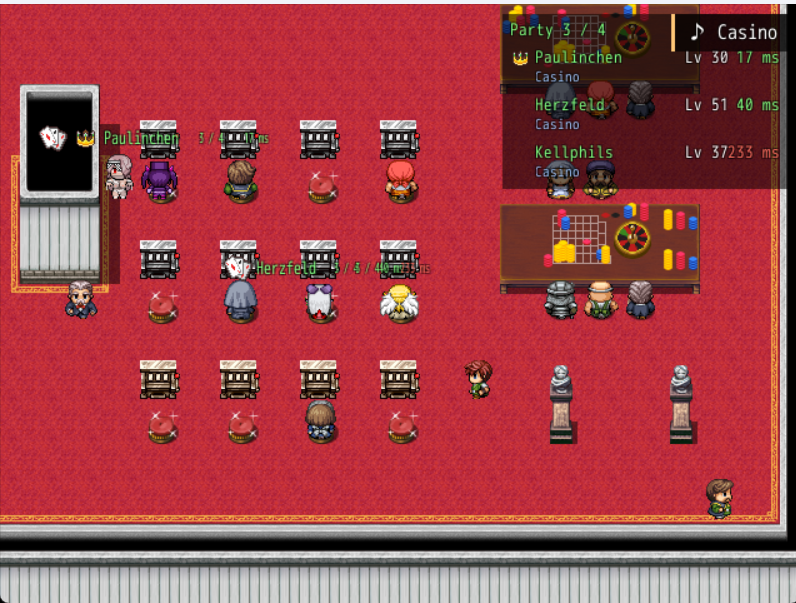
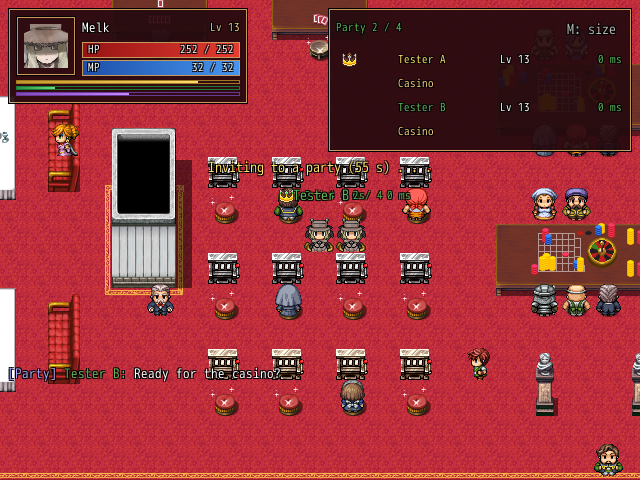
docs(guide): describe the upgrade from 0.6, the world details and the replay notices with new pictures

diff --git a/docs/RAID_WORLDS.md b/docs/RAID_WORLDS.md
@@ -38,7 +38,7 @@ Pick *Raid* as the *World type* in the create form (see [Creating a world](GUIDE
 
 - **One story:** the world has one story, and whoever moves it on moves it on for everyone. Your game takes the world's story when you enter the world, load a save or start a new game, and whenever another player's story moved on, once you're free on the map. Your saves hold the world's story as it was then; what you changed just before saving, going back to the title screen or closing the game still reaches the world. Nobody plays a party leader's story here.
 - **What stays yours:** your party and companions, your side (Alice or Ilias), your own answers to the story's choices, and your chests. That includes the Navy or the Pirates at Navy Headquarters: each player's side brings their own companions and their own ship, and a save that was already past it before this choice existed is asked once when you enter. The chests that hold the story's key items are the world's: each opens once, for everyone, in each player's own game, as if they had opened it themselves; one your party cannot unlock yet waits until it can.
-- **Choices in another player's events:** when another player's event plays in your game, it asks you each of its choices that changes your own story or what you get, with the event's own answers. Whom you take along in Iliasville is always your own pick.
+- **Choices in another player's events:** when another player's event plays in your game, it asks you each of its choices that changes your own story or what you get, with the event's own answers, in a box titled with that player's name once you stand free on the map. Cancel answers what the game's own cancel answers in that choice; where the choice has none, cancel puts the question off until you stand free again after a message, menu, battle or map change. Whom you take along in Iliasville is always your own pick.
 - **Key items:** every key item the world's story gives or takes reaches every player, whatever part of the story they're in.
 - **No list of gifts:** the catch-up hands out what you're owed without a message listing it; the World overview's Unlocks page shows what each level brings. A companion who joins or leaves, and moving on to the world's story, still say so.
 - **Side quests:** a side quest moves on for the whole world, like the story, so whoever does a step does it for everyone. Its gifts come to every other player once the world passed that step, such as Amira's Informant Papers once anyone started her Phoenix Tail investigation, or a companion's reward on the Pocket Castle's board. A gift you got yourself doesn't come twice.
@@ -47,11 +47,11 @@ Pick *Raid* as the *World type* in the create form (see [Creating a world](GUIDE
 - **Makina:** once anyone in the world got a Makina, from its own chest or event, or enters the world holding one, it comes to every other player whose level reaches the level of the area where it can be found, such as level 6 for the three in Tartarus I299387. A Makina nobody got yet comes to nobody by level. It comes by opening its chest in your game, as if you had opened it yourself: the chest closes, and what it does for you, it does. A locked one waits until your party can unlock it. Only your actual level counts, never the level cap of another mod: a character held at a cap below a Makina's level doesn't bring it. Whenever you enter the world or load a save, everything your level has reached comes at once: Makina, companions, and the story's skills and items that wait for it.
 - **Companions on a visit:** a companion the story brings along only for a while, who leaves again within the same stretch of the story (such as Alma Elma's visits in Part 2, or the Chaos route's final lineup), is never handed out by the catch-up, doesn't count toward your level and gains no catch-up experience; neither does a story's temporary party. Their lasting joins count as usual. Alice and Ilias always count.
 - **Alice's and Ilias's companions:** the companions only one side gets in Parts 1 to 3, such as Ilias, Micaela-chan and Eden on Ilias's side or Alice, Lilith & Lilim and Morrigan on Alice's, come only to the players who took that side along in Iliasville, never before they chose, by the catch-up, a replay, sharing or the world's story alike. From the Great Decision on, your route gives what the game gives on it: siding with the Dark Goddess, Ilias's side's companions leave and Alice's join; siding with the Goddess Ilias, the other way round; the third way brings both. Anyone you got on a route you played stays with you after it, and a route you never played takes no one from you. If you start from the world's starting save past Iliasville, its side is the creator's, so you're asked whom you take along, and a companion of the other side you hold leaves you ("Ilias left you."). Your own save keeps the side you took along.
-- **Key items, job and race items:** when an event of any player gives a key item or an item that unlocks a job or a race, such as the Chef's License from its chest in Rostrum or the Fortune Teller Permit from the Fortune Teller in Pornof, ores and music CDs too, that event plays again in every other player's game, silently, and gives it to them too, behind on a part of their own too, and its chest shows open for them. A player who joins later gets it as their game walks the world's story. When an event of any player uses one up, such as the Yggdrasil Fruit the Queen Harpy takes, every player of the world who holds one loses it too; if you don't hold it, nothing happens and nothing waits on it. One a player gets as a battle's drop reaches every other player too, silently, with a notice, and later joiners as their game walks the world's story. Small and Large Medals stay your own.
+- **Key items, job and race items:** when an event of any player gives a key item or an item that unlocks a job or a race, such as the Chef's License from its chest in Rostrum or the Fortune Teller Permit from the Fortune Teller in Pornof, ores and music CDs too, that event plays again in every other player's game, out of sight, and gives it to them too, behind on a part of their own too, and its chest shows open for them; a notice names the player who played it for everyone and what it gave you. A player who joins later gets it as their game walks the world's story. When an event of any player uses one up, such as the Yggdrasil Fruit the Queen Harpy takes, every player of the world who holds one loses it too; if you don't hold it, nothing happens and nothing waits on it. One a player gets as a battle's drop reaches every other player too, with a notice that names who won it, and later joiners as their game walks the world's story. Small and Large Medals stay your own.
 - **Skills, classes and races of the story:** the skills the story and its side and companion quests teach a companion, such as the Defense traits Rami learns on her flying lessons, and the classes and races they give, such as Luka's Hero at Mt. Saint Amos and his Lowly Angel race in the Forest of Spirits, come to that character in every player's roster within a few seconds once the world passed the step, and to a companion who joins you later as soon as they join. A class or race comes at the level the story gives it; the one you play stays as it is.
 - **Power-ups:** once anyone in the world finished a power-up, such as Alice's or Ilias's on the Chaos route, Black Alice's tower or Alipheese the 9th, every other player gets what it gives once their actual level reaches the level it raises the character to (at most 300): the new form, and on a first playthrough the level, equipment, gem stones and abilities that come with it. Each comes once, so a form you pick again later stays; medals stay yours.
 - **The second accessory slot:** once anyone in the world got Fallen Micaela's blessing at Enrika, every player's characters can wear two accessories.
-- **Prizes:** the prizes the game hands out once, such as the Reaper's Battle Challenge, the Colosseum's ranks and cups, Survival and the battlefucks' rewards, are the world's: the event that wins one plays again in every other player's game, silently, and gives them the prize too. The Medal King's one-of-a-kind items come free to every player once anyone bought one.
+- **Prizes:** the prizes the game hands out once, such as the Reaper's Battle Challenge, the Colosseum's ranks and cups, Survival and the battlefucks' rewards, are the world's: the event that wins one plays again in every other player's game, out of sight, and gives them the prize too. The Medal King's one-of-a-kind items come free to every player once anyone bought one.
 - **Battlefucks:** a battlefuck plays in your own game alone; nobody is taken along to watch it, and you aren't taken along to another player's. A battlefucker's progress is the world's, so one beaten by anyone is beaten for everyone, and what she gives comes to every player like the story's other rewards.
 - **Affection:** each companion's affection is the highest any player of the world reached. Raising it, with a gift or in battle, raises it for everyone within a few seconds of your next write, and nothing lowers it. Affection gifts, such as a Proof of Faith from the Pocket Castle's cathedral, stay yours to claim: every player gets each gift once, as soon as the shared affection is high enough.
 - **Only forward:** what the world's story reached never goes back. A boss beaten stays beaten and a quest's step stays done, even when an old scene of your own save or a game over sets it back for you: the world's progress comes back as soon as the event is over.

diff --git a/docs/GUIDE.md b/docs/GUIDE.md
@@ -75,7 +75,9 @@ They are kept in `Patch\Multiplayer\Player.ini`, so they hold in every save.
 
 MGQ Online needs the [Mod Framework](https://github.com/Pauliinchen/MGQ-Mod-Framework), which you install first (see the [README](../README.md#install)). The framework installs, updates and removes the mods of the [website](https://mgqonline.org/mods), MGQ Online too, which has no updater of its own; its [guide](https://github.com/Pauliinchen/MGQ-Mod-Framework/blob/main/docs/GUIDE.md) tells how. MGQ Online's settings and hotkeys are in *Options → Mods*: *MGQ Online Settings*, *MGQ Online SP* and *MGQ Online Hotkeys*.
 
-When the server needs a newer release of MGQ Online, the mod asks the framework for it: on the title screen as you pick *Multiplayer*, and at the title after the server turned your version away in a world. *Update and restart* installs it and starts the game again in the Multiplayer menu. Until you update, worlds, duels and trades stay off.
+When the server needs a newer release of MGQ Online, the mod asks the framework for it: on the title screen as you pick *Multiplayer*, and at the title after the server turned your version away in a world. *Update and restart* installs it and starts the game again in the Multiplayer menu. Until you update, worlds, duels and trades stay off. This is checked on Windows; under Wine and Proton it should work too but is not checked yet: if the update does not move into place there, close the game and extract the release's zip into the game folder by hand.
+
+**Coming from 0.6:** install the Mod Framework 0.1.0 first, from the [website](https://mgqonline.org/mods) or its [GitHub release](https://github.com/Pauliinchen/MGQ-Mod-Framework/releases), then MGQ Online 0.7; 0.6 can no longer play online. On Windows, 0.6.9.2 offers the update itself as you pick *Multiplayer*, but it brings 0.7 without the framework: the game then says MGQ Online needs the Mod Framework, and the mod stays off until you install it. Under Wine and Proton, 0.6.9.2 cannot update itself: close the game, install the framework, extract the 0.7 zip into the game folder by hand and delete `Patch\0_ModConfigRemake.rb`, which 0.6 brought and the framework replaces.
 
 ## Worlds
 
@@ -111,7 +113,14 @@ The worlds box lists every public world, the hidden worlds you joined and the hi
 
 Worlds you played that are no longer listed, such as one its creator deleted, come last.
 
-With the cursor on a world, the right side shows its details: who made it, its password (*None*, *Needed*, or *Known* once this PC entered it with the password), its players, how new players start, the mods it needs, that your game data is compared with the creator's as you enter, and its description. The right arrow moves into the details; the arrows pick the world's facts, its game data, its players or its description, and confirm (or a click) opens it in full: every fact of the world, its mods with the mod settings and other mods, every player, or the whole description. Every player who ever joined is listed, those online first. The left arrow or cancel goes back to the list.
+With the cursor on a world, the right side shows its details in four parts:
+
+- **World**, its heading marked *Raid World* or *featured*: *Creator*, *Players* (online of its seats), *Password* (*None*, *Needed*, or *Known* once this PC entered it with the password), *Listed* (*Public* or *Hidden*) and *Start* (where new players start). A Raid World adds *Difficulty*, *Sharing* and *Squad*, its squad rules in one line such as "4, front 1, Luka fixed"; a Classic world with raid bosses adds *Raid Bosses*.
+- **Game data:** the mods it needs, its mod settings and whether it turns other mods off, with the note that your game data is compared with the creator's as you enter (for your own world, that yours becomes the world's).
+- **Players:** every player who ever joined, those online first.
+- **Description.**
+
+A world that is only on this PC shows its *Status* alone: deleted or you were removed, or not in the list right now. The right arrow moves into the details; the arrows pick the World part, the Game data, the players or the description, and confirm (or a click) opens it in full: every fact of the world, its mods with the mod settings and other mods, every player, or the whole description. The left arrow or cancel goes back to the list.
 
 ### Entering a world
 
@@ -277,7 +286,7 @@ Press **F11** or pick the middle of the action wheel; **F11**, **B**, cancel, nu
 
 **The Players page:**
 
-- **Every player online**, grouped by where they are, yours first: their name in their color, the highest level in their formation, where they are in the story ("Part 2: Alice side") and their ping.
+- **Every player online**, grouped by where they are, yours first: the map sprite of the character who leads their team, as on the map, then their name in their color, the highest level in their formation, where they are in the story ("Part 2: Alice side") and their ping.
 - Party leaders have a crown, a party's size shows as "2 / 4", and your party's members are green, you yellow. A player whose invite or challenge reaches you shows "Invites you to a party" or "Challenges you to a duel" in their row.
 - **Pick a player** with the arrow keys and confirm, or click them, to invite them to your party or accept their invite, and to challenge them to a duel or accept theirs, wherever in the world they are. A party invite from afar stands for a minute; "Inviting to a party (58 s) . . ." above your head counts it down. As your party's leader you also remove members here, after a question ("Remove \<name> from the party?"). On your own row you can leave your party, after a question too, or stop inviting.
 
@@ -312,7 +321,7 @@ The mod's invites and messages show among the Mod Framework's notices, in the co
 
 ## Parties
 
-![A party of three at the casino, with the party box at the top right](images/party-casino.png)
+![A party of two at the casino, with the party box at the top right](images/party-casino.png)
 
 A party holds up to four players. Its leader is the player who made it: only they invite more and remove members (in the World overview). In a [Classic World](CLASSIC_WORLDS.md) the party plays its leader's story together; in a [Raid World](RAID_WORLDS.md) everyone plays the world's story, and a party gets the first places in each other's battles.
 
@@ -353,7 +362,7 @@ Everyone goes where they like. In a Classic World the leader's story scenes brin
 
 ## Co-op battles
 
-![A co-op battle: each player's characters carry their name](images/coop-battle.png)
+![A co-op battle: each character in its player's color](images/coop-battle.png)
 
 When a battle starts for a party member, whether a random encounter, a wandering monster or a story boss, the party members playing on the same map join it; in a Raid World the players nearby join too. Who runs the battle and whose levels count depend on the world type: see [Classic Worlds](CLASSIC_WORLDS.md#co-op-battles) and [Raid Worlds](RAID_WORLDS.md#battles), whose page also explains the [raid bosses](RAID_WORLDS.md#raid-bosses).
 

diff --git a/Relay/README.md b/Relay/README.md
@@ -185,7 +185,7 @@ Options, each left out when off: `defeatWrite: true` (the post-defeat processing
 
 **`events`** rows: `key`, the self switches of a map event (`ss<map>.<event>.<letter>`, `*` for every event or every letter: `ss231.*.*` for every self switch of map 231, `ss0.*.F` for the found items' self switches on map 0, which has no events) or those a common event writes (`ce<id>.<letter>`); `share` (`shared` or `personal`, against what the derived index says); `chest: true` for a chest's self switches, with `share` `personal` only, which the relay keeps for the player alone (the `chest` kind of Story tracks); the reviewed seed holds such a row only for the chests whose event the derived index would otherwise share, while every other chest's self switches stay in the player's own save; `wholeWorld: true` with `share` `shared` only, for self switches the whole world keeps, players behind included (the found items' `ss0.*.F`, so a key item or a job or race item any player found reaches every player of the world). A relay seeded before 2026-11-01 keeps its `ss0.*.F` row without the option until an admin changes it.
 
-**Catch-up tables**, each replacing the Ruby table named, with its fields in this order. A row's place is `site` (`map:<map>:<event>:<page>`, pages from 1, or `ce:<id>`), `part` (`1`, `2`, `3`, `ad`, `mr`, `chaos` or null), `step` (null where nothing tells it), `side` (`alice`, `ilias` or null) and `marks` (each `["s", switch]`, `["v", variable, at least]` or `["ss", map, event, letter]`); `ran` tells whether the marks show that the event ran. Tables marked *ordered* also take `order` (0 to 1,000,000,000), the story's order games read them in, rows of one order in the order of their ids; rows of tables without a key are numbered by the relay, a number never given twice.
+**Catch-up tables**, each replacing the Ruby table named; those of the deleted `coop_story_rewards.rbx` live only here now, seeded from `seed/story/<table>.json` and read by `MGQOnline.Game/Catchup/CatchupTables.cs`. Each lists its fields in this order. A row's place is `site` (`map:<map>:<event>:<page>`, pages from 1, or `ce:<id>`), `part` (`1`, `2`, `3`, `ad`, `mr`, `chaos` or null), `step` (null where nothing tells it), `side` (`alice`, `ilias` or null) and `marks` (each `["s", switch]`, `["v", variable, at least]` or `["ss", map, event, letter]`); `ran` tells whether the marks show that the event ran. Tables marked *ordered* also take `order` (0 to 1,000,000,000), the story's order games read them in, rows of one order in the order of their ids; rows of tables without a key are numbered by the relay, a number never given twice.
 
 | Table | Replaces | Key | Fields |
 |---|---|---|---|
@@ -206,10 +206,10 @@ Options, each left out when off: `defeatWrite: true` (the post-defeat processing
 | `counts` | `world_catchup.rbx` `COUNTS` | `variable` | `variable`, `weights` (each `{switch, weight}`), `doneSwitch` and `doneValue` (the switch that sets its last value, with that value; both null for none), `since` (`{variable, atLeast}` the variable at a value or more before it counts at all, or null) |
 | `actor_changes` *ordered* | `ACTOR_CHANGES` | numbered | `actor`, `calls` (each `[call, [whole numbers], once]`, the call one of `persona_change`, `level_adjust`, `change_actor_ability`, `force_change_equip`, `change_actor_equip_stone`, `set_actor_had`, `once` whether only a first playthrough runs it), `gate` (the highest level they set, or null), place, `ran` |
 | `prize_switches` | none: the switches of the Medal King's one-of-a-kind exchanges, whose free gift is the one prize the replay does not hand over | `switch` | `switch` |
-| `event_rewards` | `coop_story_rewards.rbx` `SKILLS`, `ACTORS`, `ITEMS`, `SIDED`, `ROUTE`, `FINAL` | `<kind>:<id>` | `kind` (`skill`, `companion`, `item`, `weapon`, `armor`), `id`, `most` (items only), `sided`, `route` (sided ones only), `final` |
-| `side_events` | `coop_story_rewards.rbx` `GROUPS` | `site` | `site` (`map:<map>:<event>` or `ce:<id>`), `alice` and `ilias` (each `{skills, companions}`), `choice`, `marks` (one list of marks per page) |
-| `party_chests` | `coop_story_rewards.rbx` `CHESTS` | `key` | `key` (`ss<map>.<event>.<letter>`, every chest of the game, which a party member keeps their own of) |
-| `chest_flags` | `coop_story_rewards.rbx` `CHEST_FLAGS` | `switch` | `switch` (one only chests turn on, each player's own) |
+| `event_rewards` | the deleted `coop_story_rewards.rbx`: `SKILLS`, `ACTORS`, `ITEMS`, `SIDED`, `ROUTE`, `FINAL` | `<kind>:<id>` | `kind` (`skill`, `companion`, `item`, `weapon`, `armor`), `id`, `most` (items only), `sided`, `route` (sided ones only), `final` |
+| `side_events` | the deleted `coop_story_rewards.rbx`: `GROUPS` | `site` | `site` (`map:<map>:<event>` or `ce:<id>`), `alice` and `ilias` (each `{skills, companions}`), `choice`, `marks` (one list of marks per page) |
+| `party_chests` | the deleted `coop_story_rewards.rbx`: `CHESTS` | `key` | `key` (`ss<map>.<event>.<letter>`, every chest of the game, which a party member keeps their own of) |
+| `chest_flags` | the deleted `coop_story_rewards.rbx`: `CHEST_FLAGS` | `switch` | `switch` (one only chests turn on, each player's own) |
 
 **Seeds.** `seed/story/<table>.json` holds the rows a table starts with: the rules, counts and companion values of the catch-up, kept by hand in `seed/story/make_seed.rb` (`ruby Relay/seed/story/make_seed.rb` in the repository writes them), and the reviewed rows of the other tables, from the row review in `seed/story/REVIEW.md`, which `make_seed.rb` never writes. A file holds either `rows` (each as an admin would add it) and `source` (where they came from), or the list of edits an admin would send to `POST /v1/admin/story/edit`, each an `add` of the file's table. At every start the Node relay fills each table that holds no rows yet from its seed file, all in one revision with the author `seed` and no history, and leaves every table with rows as the admins keep it; a table it filled or found with rows once is never seeded again (the mapping's meta names it in `seeded`), so a table the admins emptied stays empty; a seed file of another shape or a seed row the table refuses stops the relay, and a relay installed without the folder seeds nothing and logs so. The seeding leaves an edit's `note` out, which an admin who applies a file through the route keeps; the route takes at most 2,000 edits at a time, so the larger files go in slices. The mapping's own `keys` and `events` are seeded the same way, from their reviewed rows.
 

diff --git a/docs/CLASSIC_WORLDS.md b/docs/CLASSIC_WORLDS.md
@@ -44,7 +44,7 @@ Members close to the leader in the story play the leader's story. Its events, do
 - If you were a step or two behind, you catch up with the leader's story at once: you get the skills, companions and items the story's events between your step and the leader's give, those of your own side, never a copy of what the leader holds, and keep the leader's progress when you leave. Side quests you played that the leader never touched stay yours, and so do party chests: one only the leader looted is still there for you to open.
 - Where Alice's and Ilias's side get different skills or companions, such as Luka's training at the camps or the companions who join at the Strategy Conference, you get those of your own side once the leader's story gets past that point, even where only your side gets someone. If you have not chosen a side yet, you choose once the leader has, and your companion joins you. The same goes when your save started from another player's starting save past that choice, also when you play alone or lead and after the Great Decision: you choose your own side, and before the Great Decision the companions of the other side leave you. Until you choose, the Great Decision and the Strategy Conference give you the companions of the side your save holds, as the game does. A companion only the other side gets never joins you, by the catch-up or by the leader's events playing in your game, unless the route you play gives them.
 - After the Great Decision you follow the leader's route and get its companions.
-- **Key items, job and race items:** when an event of a member gives a key item or an item that unlocks a job or a race, such as the Fortune Teller Permit, an ore or a music CD, that event plays again in every other member's game, silently, and gives it to them too, whatever story they play. When an event of a member uses one up, such as the Yggdrasil Fruit the Queen Harpy takes, every member who holds one loses it too; if you don't hold it, nothing happens and nothing waits on it. If you join behind the leader, the key items of the leader's story come with your catch-up. One a member gets as a battle's drop reaches every other member too, silently, with a notice. Small and Large Medals stay your own. When the leader returns to the Great Decision, only the leader's route key items go; yours stay.
+- **Key items, job and race items:** when an event of a member gives a key item or an item that unlocks a job or a race, such as the Fortune Teller Permit, an ore or a music CD, that event plays again in every other member's game, out of sight, and gives it to them too, whatever story they play; a notice names the member who played it for everyone and what it gave you. When an event of a member uses one up, such as the Yggdrasil Fruit the Queen Harpy takes, every member who holds one loses it too; if you don't hold it, nothing happens and nothing waits on it. If you join behind the leader, the key items of the leader's story come with your catch-up. One a member gets as a battle's drop reaches every other member too, with a notice that names who won it. Small and Large Medals stay your own. When the leader returns to the Great Decision, only the leader's route key items go; yours stay.
 - **The Medal King:** once the leader buys one of his one-of-a-kind items, such as the Noble Orb, every member who follows the leader's story and holds none of it gets it for free, once.
 - If you were ahead of the leader, you borrow the leader's key items you lack, such as the one that opens a locked door, while you're in the party. They go back when you leave it and stay out of your saves, and you borrow them again after a crash, a load or a duel.
 - When the party brings you into the Pocket Castle, its way out takes you back to where you came from.
@@ -57,7 +57,7 @@ The story's choices are yours, whatever the leader chose: Alice or Ilias, Lily o
 - Accepting opens one screen with every choice the jump carries you past, in story order, each with what your answer brings ("Lucia joins.", "Nobody joins: Natasha joins only while Lily is with you."). Left/Right, Enter or a click change an answer; *Bring me there* takes them all, *Cancel* leaves your story as it is.
 - **The Great Decision:** "Side with the Dark Goddess (World Breaker)" leads to the Angelic Dominion route, "Side with the Goddess Ilias (Judgement)" to the Monster Realm route, and "Search for a third way (Chaos)" shows only if your own save cleared both endings. The leader's route catches you up with them; another route starts you at that route's beginning, where you play it on your own ("You start your own route. Each of you plays your own story.").
 - While you play the leader's story, the same screen asks your own answer whenever the story passes one of these choices, or the leader makes one you haven't.
-- **Another member's events:** when a member's event plays in your game, it asks you each of its choices that changes your own story or what you get, with the event's own answers. Whom you take along in Iliasville is always your own pick.
+- **Another member's events:** when a member's event plays in your game, it asks you each of its choices that changes your own story or what you get, with the event's own answers, in a box titled with that member's name once you stand free on the map. Cancel answers what the game's own cancel answers in that choice; where the choice has none, cancel puts the question off until you stand free again after a message, menu, battle or map change. Whom you take along in Iliasville is always your own pick.
 
 ## Story scenes
 

diff --git a/README.md b/README.md
@@ -47,7 +47,9 @@ You then have `Multiplayer.rb` in your `Patch` folder, and next to it a `Multipl
 
 While the mod is installed, the game keeps running when its window is in the background. A gamepad does nothing meanwhile.
 
-**Update:** the mod has no updater of its own; the Mod Framework updates it like any mod of the website. When the server needs a newer release, *Multiplayer* on the title screen asks for it, as does the title after the server turned your version away in a world; until then worlds, duels and trades stay off. *Update and restart* installs the release and starts the game again in the Multiplayer menu, under Wine and Proton too. Your name, hotkeys, favourites and worlds are kept. If the game cannot start after an update, download the release again and extract it over the old one.
+**Update:** the mod has no updater of its own; the Mod Framework updates it like any mod of the website. When the server needs a newer release, *Multiplayer* on the title screen asks for it, as does the title after the server turned your version away in a world; until then worlds, duels and trades stay off. *Update and restart* installs the release and starts the game again in the Multiplayer menu. Your name, hotkeys, favourites and worlds are kept. If the game cannot start after an update, download the release again and extract it over the old one. This is checked on Windows; under Wine and Proton it should work too but is not checked yet: if the update does not move into place there, close the game and extract the release's zip into the game folder by hand.
+
+**Coming from 0.6:** install the Mod Framework 0.1.0 first, from the [website](https://mgqonline.org/mods) or its [GitHub release](https://github.com/Pauliinchen/MGQ-Mod-Framework/releases), then MGQ Online 0.7 as above; 0.6 can no longer play online. On Windows, 0.6.9.2 offers the update itself as you pick *Multiplayer*, but it brings 0.7 without the framework: the game then says MGQ Online needs the Mod Framework, and the mod stays off until you install it. Under Wine and Proton, 0.6.9.2 cannot update itself: close the game, install the framework, extract the 0.7 zip into the game folder by hand and delete `Patch\0_ModConfigRemake.rb`, which 0.6 brought and the framework replaces.
 
 **Uninstall:** close the game and delete `Multiplayer.rb` and the `Multiplayer` folder in `Patch`. Keep `Patch\Multiplayer\Worlds` if you want to play your worlds again later. The Mod Framework stays for your other mods.
 

diff --git a/BattleServer/README.md b/BattleServer/README.md
@@ -17,7 +17,7 @@ them.
 after checking it in sandboxed battle children. To build it on this PC (Docker running):
 
 ```powershell
-.\MGQOnline.ServerCore\build.ps1 -Version 0.6.9   # -> MGQOnline.ServerCore\bin\linux-x64\MGQOnline.ServerCore.so
+.\MGQOnline.ServerCore\build.ps1 -Version 0.7.0   # -> MGQOnline.ServerCore\bin\linux-x64\MGQOnline.ServerCore.so
 .\BattleServer\tools\core_check.ps1               # loads it in two sandboxed children and prints a table
 ```
 
